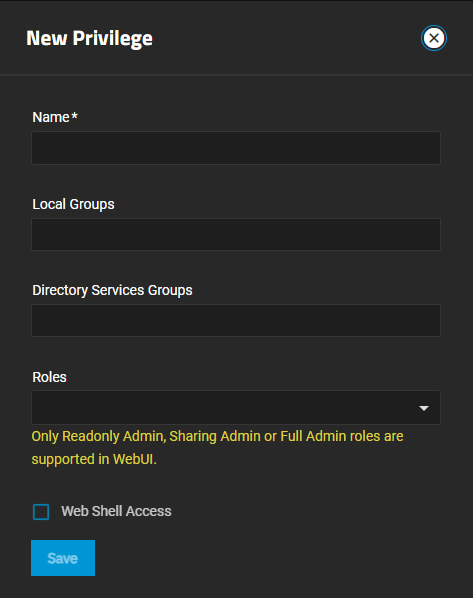
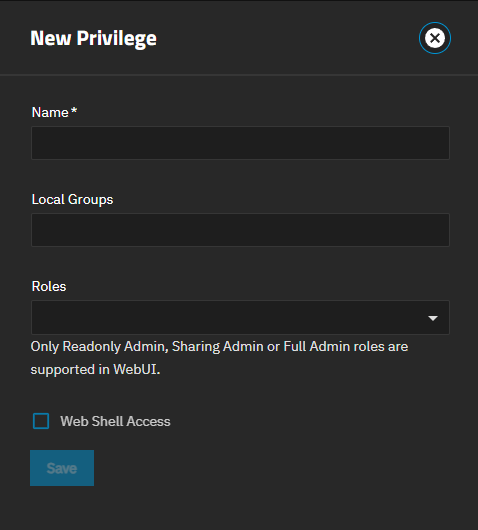
PD-1924 / 25.10 / Pd 1924 update group privileges screen content (#3728)
* PD-1924 Update Groups UI Ref Article

This PR updates the Add Privilege sreenshot and updates the setting descriptions to reflect the change, removing the Directory Services Groups field.

* PD-1924 Update the Group Screen UI ref Article Privileges Content

This PR updates the Add Privilege screenshot and setting descriptions, and links it to the Access widget setting for Allowing Directory Service users to access WebUI option as this influences what Enterprise customers see and experience.

* Update content/SCALE/SCALEUIReference/Credentials/LocalGroupsScreens.md

* Update content/SCALE/SCALEUIReference/Credentials/LocalGroupsScreens.md

* Update content/SCALE/SCALEUIReference/Credentials/LocalGroupsScreens.md

* Update LocalGroupsScreens.md

Verify commit, add carriage return in line 84 at the second sentence in the paragraph

---------

diff --git a/content/SCALE/SCALEUIReference/Credentials/LocalGroupsScreens.md b/content/SCALE/SCALEUIReference/Credentials/LocalGroupsScreens.md
@@ -65,7 +65,7 @@ Hold <kbd>Ctrl</kbd> while clicking each entry to select multiple groups.
 ## Privileges Screen
 
 {{< hint type="warning" title="Experimental Feature" >}}
-The **Privileges** feature in an early releases was an experimental feature but is no longer experimental as of 24.10.
+The **Privileges** feature in releases earlier than 24.10 is experimental, but as of 24.10 onwards is no longer experimental.
 
 Do not edit the existing predefined administrator roles (Full Control Admin, Readonly Admin, and Sharing Admin)!
 Editing an unrestricted administrator account privilege can result in lost access to the system!
@@ -80,6 +80,12 @@ The **Privileges** screens show the default administrator groups and roles and d
 
 The new and edit privilege screens show the same settings but not all settings are editable.
 
+{{< enterprise >}}
+Enterprise-licensed systems can enable Active Directory to provision groups in TrueNAS. To make this possible, join Active Directory, then go to **System > Advanced Settings > Access** and enable the **Allow Directory Service users to access WebUI** option.
+After enabling this, the **Edit Privilege** screen lists AD groups on the **Groups** dropdown list.
+See [Allowing Directory Service Users to Access the UI]({{< relref "advanced.md #allowing-directory-service-users-to-access-the-ui" >}}) for more information.
+{{< /enterprise >}}
+
 {{< trueimage src="/images/SCALE/Credentials/AddNewPrivilegeScreen.png" alt="New Privilege Screen" id="New Privilege Screen" >}}
 
 **Add** opens the **New Privilege** screen. 
@@ -88,10 +94,9 @@ The <svg xmlns="http://www.w3.org/2000/svg" width="24" height="24" viewBox="0 0 
 {{< truetable >}}
 | Setting | Description |
 |---------|-------------|
-| **Name** | Assigns the entered name to a new privilege. Names can include the dash (-) or underscore(_) special characters, and upper and lowercase alphanumeric characters. Enter a descriptive name for the privilege. **Name** shows on the **Edit Privilege** screen but is not editable. |
+| **Name** | Assigns the name entered to a new privilege. Names can include the dash (-) or underscore(_) special characters, and upper and lowercase alphanumeric characters. Enter a descriptive name for the privilege. **Name** shows on the **Edit Privilege** screen but is not editable. |
 | **Groups** | Shows a list of groups configured on the system. Select a group from the dropdown list after clicking in the field. The privilege is applied to the selected group(s). |
-| **Directory Services Groups** | Shows a list of available groups to select after clicking in the field. Applies the privilege to selected groups. |
-| **Roles** |Select from a dropdown list of all available roles available to assign to the new privilege, or change in an existing privilege. |
+| **Roles** | Select from a dropdown list of all available roles available to assign to the new privilege or change an existing privilege. Only the Readonly Admin, Sharing Admin, or Full Admin roles are supported in the web UI. |
 | **Web Shell Access** | Select to allow a user to assign the new privilege access to the **System > Shell** screen. |
 {{< /truetable >}}
 
